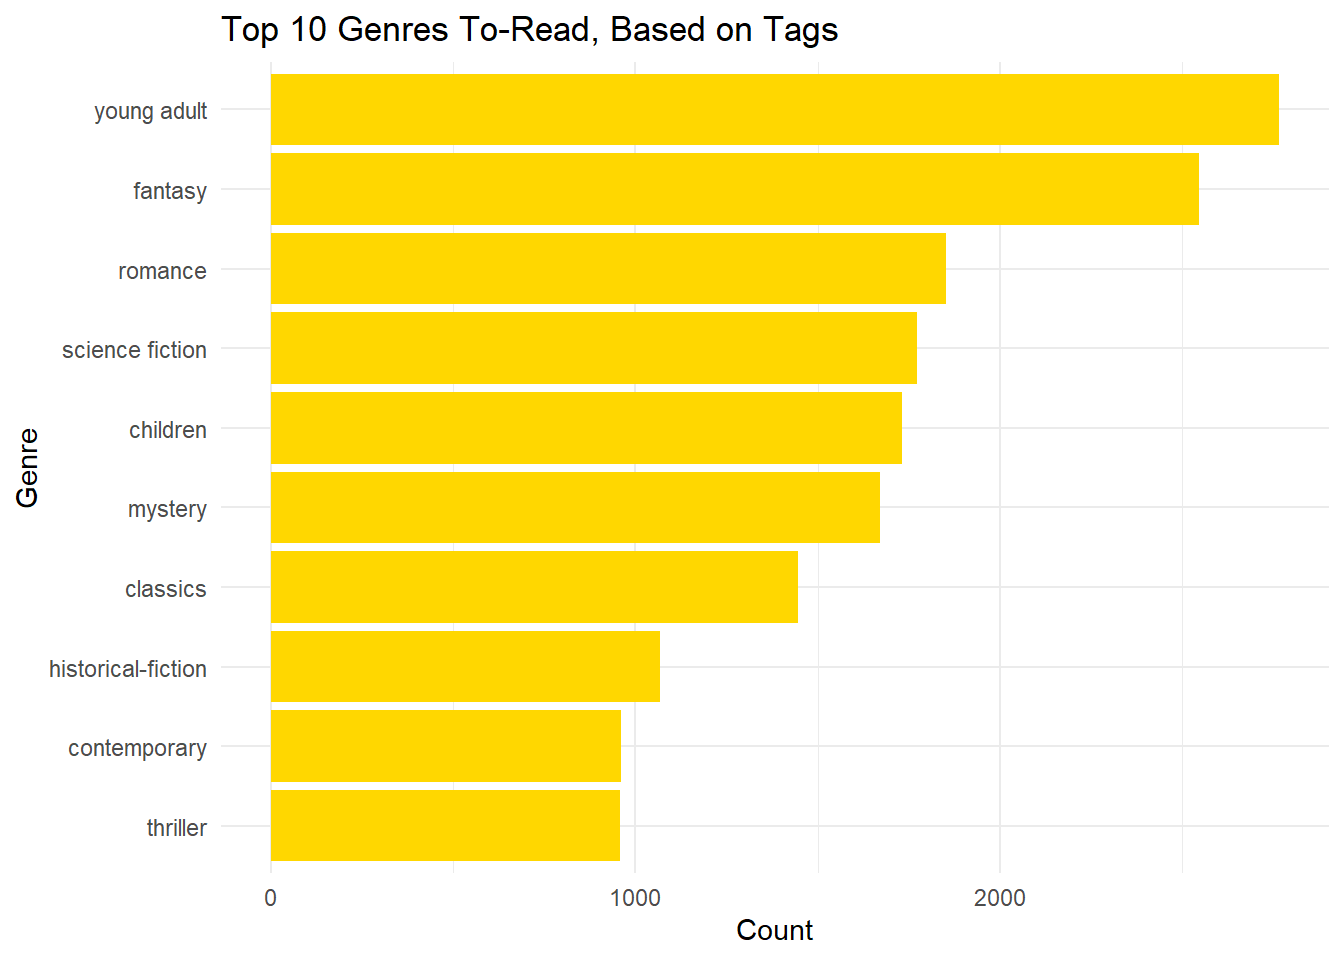
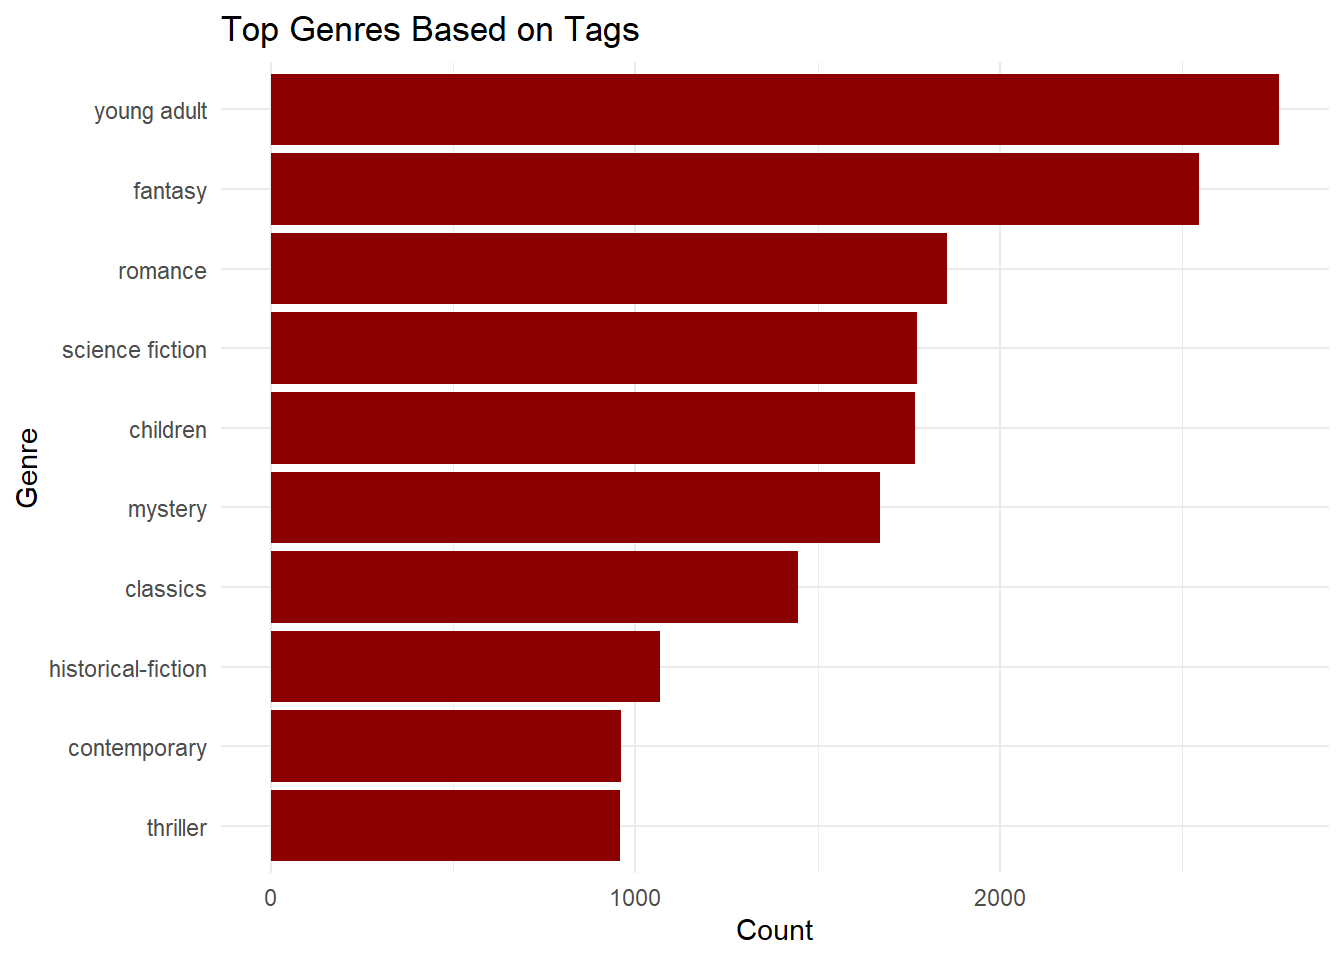
formatting for genre section (JM)

diff --git a/genres.html b/genres.html
@@ -244,21 +244,15 @@ $(document).ready(function () {
     </div>
     <div id="navbar" class="navbar-collapse collapse">
       <ul class="nav navbar-nav">
+        
+      </ul>
+      <ul class="nav navbar-nav navbar-right">
         <li>
   <a href="index.html">About</a>
 </li>
-<li>
-  <a href="Analysis.html">Analysis</a>
-</li>
-<li>
-  <a href="dashboard.html">Dashboard</a>
-</li>
-<li>
-  <a href="Report.html">Report – Hypothesis Testing Results</a>
-</li>
 <li class="dropdown">
   <a href="#" class="dropdown-toggle" data-toggle="dropdown" role="button" data-bs-toggle="dropdown" aria-expanded="false">
-    Descriptive Analyses
+    Analyses
      
     <span class="caret"></span>
   </a>
@@ -272,24 +266,16 @@ $(document).ready(function () {
     <li>
       <a href="popular_authors.html">Popular Authors</a>
     </li>
+    <li>
+      <a href="genres.html">Most to Least Read Genres</a>
+    </li>
+    <li>
+      <a href="top_users.html">Top Users by Ratings</a>
+    </li>
+    <li>
+      <a href="top_users_to_read.html">Top Users by Most To-Read</a>
+    </li>
   </ul>
-</li>
-<li>
-  <a href="reccomendations.html">Get a Book Recommendation</a>
-</li>
-<li>
-  <a href="genres.html">Most to Least Read Genres</a>
-</li>
-      </ul>
-      <ul class="nav navbar-nav navbar-right">
-        <li>
-  <a href="genres.html">Most to Least Read Genres</a>
-</li>
-<li>
-  <a href="top_users.html">Top Users by Ratings</a>
-</li>
-<li>
-  <a href="top_users_to_read.html">Top Users by Most To-Read</a>
 </li>
 <li class="dropdown">
   <a href="#" class="dropdown-toggle" data-toggle="dropdown" role="button" data-bs-toggle="dropdown" aria-expanded="false">
@@ -332,84 +318,35 @@ $(document).ready(function () {
 <div id="data-most-and-least-popular-genres-read"
 class="section level2">
 <h2>DATA: Most and Least Popular Genres Read</h2>
-<p>Importing data to use:</p>
-<pre class="r"><code>library(readr)
-genre_data = read_csv (&quot;books_with_tags.csv&quot;, show_col_types = FALSE)</code></pre>
-<p>Tidying data:</p>
-<pre class="r"><code># Load necessary libraries
-library(dplyr)</code></pre>
-<pre><code>## 
-## Attaching package: &#39;dplyr&#39;</code></pre>
-<pre><code>## The following objects are masked from &#39;package:stats&#39;:
-## 
-##     filter, lag</code></pre>
-<pre><code>## The following objects are masked from &#39;package:base&#39;:
-## 
-##     intersect, setdiff, setequal, union</code></pre>
-<pre class="r"><code>library(tidyr)
-
-# Combine all tags into a single column
-genre_data_longer = genre_data %&gt;%
-  select(top_1:top_5) %&gt;%  # Select the columns with tags
-  pivot_longer(cols = everything(), names_to = &quot;tag_type&quot;, values_to = &quot;tag&quot;) 
-
-# remove fiction and nonfiction from genre list
-genre_data_longer = genre_data_longer %&gt;%
-  filter(!tag %in% c(&quot;fiction&quot;, &quot;non-fiction&quot;))</code></pre>
+<p>Here is a sample of the data after cleaning:</p>
+<pre><code>## # A tibble: 6 × 2
+##   tag_type tag        
+##   &lt;chr&gt;    &lt;chr&gt;      
+## 1 top_1    young adult
+## 2 top_3    dystopian  
+## 3 top_4    dystopian  
+## 4 top_5    fantasy    
+## 5 top_1    fantasy    
+## 6 top_2    young adult</code></pre>
 </div>
 <div id="data-most-and-least-popular-genres-to-be-read"
 class="section level2">
 <h2>DATA: Most and Least Popular Genres To-Be-Read</h2>
-<p>Importing data to use:</p>
-<pre class="r"><code>to_read = read_csv (&quot;to_read.csv&quot;, show_col_types = FALSE)
-head(to_read)</code></pre>
+<p>Here is the sample of the data, after cleaning:</p>
 <pre><code>## # A tibble: 6 × 2
-##   user_id book_id
-##     &lt;dbl&gt;   &lt;dbl&gt;
-## 1       9       8
-## 2      15     398
-## 3      15     275
-## 4      37    7173
-## 5      34     380
-## 6      34     483</code></pre>
-<p>Tidying data:</p>
-<pre class="r"><code># Remove the &#39;user_id&#39; variable
-to_read = to_read %&gt;%
-  select(-user_id)  # Drop the user_id column
-
-# Remove duplicate &#39;book_id&#39; entries
-to_read_cleaned = to_read %&gt;%
-  distinct(book_id, .keep_all = TRUE)
-
-# Merge to_read dataset with genre_data, on book_id
-to_read_merged = to_read_cleaned %&gt;%
-  inner_join(genre_data, by = &quot;book_id&quot;)
-
-# Combine all tags into a single column
-to_read_genre_data_longer = to_read_merged %&gt;%
-  select(top_1:top_5) %&gt;%  # Select the columns with tags
-  pivot_longer(cols = everything(), names_to = &quot;tag_type&quot;, values_to = &quot;tag&quot;) 
-
-# remove fiction and nonfiction from genre list
-to_read_genre_data_longer = to_read_genre_data_longer %&gt;%
-  filter(!tag %in% c(&quot;fiction&quot;, &quot;non-fiction&quot;))
-
-write_csv(to_read_genre_data_longer, &quot;to_read_with_tag.csv&quot;)</code></pre>
+##   tag_type tag        
+##   &lt;chr&gt;    &lt;chr&gt;      
+## 1 top_1    classics   
+## 2 top_3    classics   
+## 3 top_4    young adult
+## 4 top_5    literature 
+## 5 top_3    food       
+## 6 top_4    health</code></pre>
 </div>
 <div id="exploratory-analysis" class="section level2">
 <h2>Exploratory Analysis</h2>
 <div id="most-popular-genres" class="section level3">
 <h3>Most Popular Genres</h3>
-<pre class="r"><code># Count occurrences of each tag, in descending order
-tag_counts = genre_data_longer %&gt;%
-  group_by(tag) %&gt;%
-  summarise(count = n(), .groups = &quot;drop&quot;) %&gt;%
-  arrange(desc(count))
-
-# Display the 10 most popular tags
-top_tags = tag_counts %&gt;%
-  slice_max(count, n = 10)
-print(top_tags)</code></pre>
 <pre><code>## # A tibble: 10 × 2
 ##    tag                count
 ##    &lt;chr&gt;              &lt;int&gt;
@@ -423,28 +360,10 @@ print(top_tags)</code></pre>
 ##  8 historical-fiction  1067
 ##  9 contemporary         960
 ## 10 thriller             957</code></pre>
-<pre class="r"><code># Box Graph
-library(ggplot2)
-
-ggplot(top_tags, aes(x = reorder(tag, count), y = count)) +
-  geom_bar(stat = &quot;identity&quot;, fill = &quot;darkred&quot;) +
-  coord_flip() +
-  labs(title = &quot;Top Genres Based on Tags&quot;,
-       x = &quot;Genre&quot;,
-       y = &quot;Count&quot;) +
-  theme_minimal()</code></pre>
-<p><img src="genres_files/figure-html/unnamed-chunk-5-1.png" width="672" /></p>
+<p><img src="genres_files/figure-html/unnamed-chunk-7-1.png" width="672" /></p>
 </div>
 <div id="least-popular-genres" class="section level3">
 <h3>Least Popular Genres</h3>
-<pre class="r"><code># Filter tags with counts of 50 or greater
-filtered_tags = tag_counts %&gt;%
-  filter(count &gt;= 100)
-
-# Display the least popular genres from the filtered set
-least_popular_tags = filtered_tags %&gt;%
-  slice_min(count, n = 10)
-print(least_popular_tags)</code></pre>
 <pre><code>## # A tibble: 10 × 2
 ##    tag           count
 ##    &lt;chr&gt;         &lt;int&gt;
@@ -458,30 +377,10 @@ print(least_popular_tags)</code></pre>
 ##  8 religion        126
 ##  9 adult-fiction   130
 ## 10 manga           134</code></pre>
-<pre class="r"><code># Box graph
-library(ggplot2)
-
-ggplot(least_popular_tags, aes(x = reorder(tag, count), y = count)) +
-  geom_bar(stat = &quot;identity&quot;, fill = &quot;darkred&quot;) +
-  coord_flip() +
-  labs(title = &quot;20 Least Popular Genres with a Tag Count of 100 or Greater&quot;,
-       x = &quot;Genre&quot;,
-       y = &quot;Count&quot;) +
-  theme_minimal()</code></pre>
-<p><img src="genres_files/figure-html/unnamed-chunk-6-1.png" width="672" /></p>
+<p><img src="genres_files/figure-html/unnamed-chunk-8-1.png" width="672" /></p>
 </div>
 <div id="most-popular-to-be-read-genre" class="section level3">
 <h3>Most Popular To-Be-Read Genre</h3>
-<pre class="r"><code># Count occurrences of each tag, in descending order
-to_read_tag_counts = to_read_genre_data_longer %&gt;%
-  group_by(tag) %&gt;%
-  summarise(count = n(), .groups = &quot;drop&quot;) %&gt;%
-  arrange(desc(count))
-
-# Display the 10 most popular tags for to-be-read
-to_read_top_tags = to_read_tag_counts %&gt;%
-  slice_max(count, n = 10)
-print(to_read_top_tags)</code></pre>
 <pre><code>## # A tibble: 10 × 2
 ##    tag                count
 ##    &lt;chr&gt;              &lt;int&gt;
@@ -495,28 +394,10 @@ print(to_read_top_tags)</code></pre>
 ##  8 historical-fiction  1067
 ##  9 contemporary         960
 ## 10 thriller             957</code></pre>
-<pre class="r"><code># Box Graph
-library(ggplot2)
-
-ggplot(to_read_top_tags, aes(x = reorder(tag, count), y = count)) +
-  geom_bar(stat = &quot;identity&quot;, fill = &quot;gold&quot;) +
-  coord_flip() +
-  labs(title = &quot;Top 10 Genres To-Read, Based on Tags&quot;,
-       x = &quot;Genre&quot;,
-       y = &quot;Count&quot;) +
-  theme_minimal()</code></pre>
-<p><img src="genres_files/figure-html/unnamed-chunk-7-1.png" width="672" /></p>
+<p><img src="genres_files/figure-html/unnamed-chunk-9-1.png" width="672" /></p>
 </div>
 <div id="least-popular-to-be-read-genre" class="section level3">
 <h3>Least Popular To-Be-Read Genre</h3>
-<pre class="r"><code># Filter tags with counts of 100 or greater
-to_read_filtered_tags = to_read_tag_counts %&gt;%
-  filter(count &gt;= 100)
-
-# Display the least popular genres from the filtered set
-to_read_least_popular_tags = to_read_filtered_tags %&gt;%
-  slice_min(count, n = 10)
-print(to_read_least_popular_tags)</code></pre>
 <pre><code>## # A tibble: 10 × 2
 ##    tag           count
 ##    &lt;chr&gt;         &lt;int&gt;
@@ -530,17 +411,7 @@ print(to_read_least_popular_tags)</code></pre>
 ##  8 religion        126
 ##  9 adult-fiction   130
 ## 10 manga           133</code></pre>
-<pre class="r"><code># Box graph
-library(ggplot2)
-
-ggplot(to_read_least_popular_tags, aes(x = reorder(tag, count), y = count)) +
-  geom_bar(stat = &quot;identity&quot;, fill = &quot;gold&quot;) +
-  coord_flip() +
-  labs(title = &quot;10 Least Popular Genres To-Read, based on tags&quot;,
-       x = &quot;Genre&quot;,
-       y = &quot;Count&quot;) +
-  theme_minimal()</code></pre>
-<p><img src="genres_files/figure-html/unnamed-chunk-8-1.png" width="672" /></p>
+<p><img src="genres_files/figure-html/unnamed-chunk-10-1.png" width="672" /></p>
 </div>
 </div>
 
